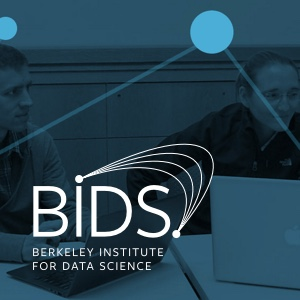
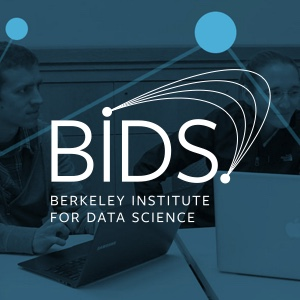
Added BIDS, changed order of projects, updated Bio page a bit

diff --git a/_includes/bio.html b/_includes/bio.html
@@ -1,16 +1,25 @@
 <h2>I'm a freelance designer in San Francisco, specializing in typography and UX design. I have an insatiable affinity for letterforms of all types, kinds, and sorts.</h2>
 
-<h4>Current Availability</h4>
-<p>I'm available for web/print/UX design or illustration.</br>
-If you have an interesting project, <a href="mailto:info@garretvoorhees.com">get in touch!</a></p>
+<h4>Previously</h4>
+<p>I was the <em>Senior Designer & UX Strategist</em> at <a target="_blank" href="http://www.chapterthree.com">Chapter Three</a>, where I was responsible for content strategy, UX, and responsive visual design on over 40 websites for tech companies, higher education institutions, and awesome non-profits.</p>
 
-<h4>These days…</h4>
+<h4>These days</h4>
 <ul>
 	<li>I run <a href="http://www.gameandtype.com">Game&Type</a>, an online archive of typography and UI/UX design in video games, featuring critical analysis and interviews with game designers and developers.</li>
 	<li>I host <a href="http://www.mixcloud.com/digthisradio">Dig This!</a> on <a href="http://www.bff.fm">BFF.fm</a>, featuring jazz, funk, soul, hip-hop, disco, house, and beyond…</li>
-	<li><a href="https://www.twitch.tv/garretdraws">I draw stuff live</a> on Twitch.</li>
-	<li>I curate <a href="http://trucktype.tumblr.com">Truck Type</a>, a catalogue of weird/awkward graphic design and typography on the side of vehicles.</li>
 	<li>I’m the design lead at <a href="http://www.screener.ly">Screener.ly</a>, a startup that offers secure screeners for the TV and movie industry.</li>
+	<li><a href="https://www.twitch.tv/garretdraws">I draw stuff live</a> on Twitch.</li>
+	<li>I maintain <a href="http://trucktype.tumblr.com">Truck Type</a>, a catalogue of weird/awkward graphic design and typography on the side of vehicles.</li>
 </ul>
 
-<p><a class="button" href="mailto:info@garretvoorhees.com">Send me a note</a> or <a href="The Resume of Garret Voorhees.pdf">download my resumé</a>.
+<h4>Talks</h4>
+<ul>
+	<li><em><a target="_blank"href="http://www.slideshare.net/garretvoorhees/the-wonderful-world-of-web-typography">The Wonderful World of Web Typography</a></em>, DrupalCon Los Angeles 2015</li>
+	<li><em><a target="_blank" href="http://www.slideshare.net/garretvoorhees/wireframing-smarter-badcamp-2014">Wireframing Smarter</a></em>, DrupalCon Austin 2014 / BADcamp 2014</li>
+</ul>
+
+<h4>Availability</h4>
+<p>I'm available for web/print/UX design or illustration.</br>
+If you have an interesting project, <a href="mailto:info@garretvoorhees.com">get in touch!</a></p>
+
+<p><a class="button" href="mailto:info@garretvoorhees.com">Send me a note</a> or <a class="button" href="The Resume of Garret Voorhees.pdf">download my resumé</a></p>

diff --git a/_sass/_base.scss b/_sass/_base.scss
@@ -46,6 +46,15 @@ p{
 	color:$text-color;
 }
 
+hr{
+	display: block;
+    height: 1px;
+    border: 0;
+    border-top: 1px solid $hr-color;
+    margin: 1em 0;
+    padding: 0;
+}
+
 
 /**
  * Set `margin-bottom` to maintain vertical rhythm

diff --git a/css/main.scss b/css/main.scss
@@ -12,7 +12,7 @@ $small-font-size:  13px;
 $base-line-height: 1.6;
 
 $text-color:       #5B5B5B;
-$background-color: #F6F6F6;
+$background-color: #f3f3f6;
 $brand-color:      #58C847;
 
 $grey-color:       #828282;
